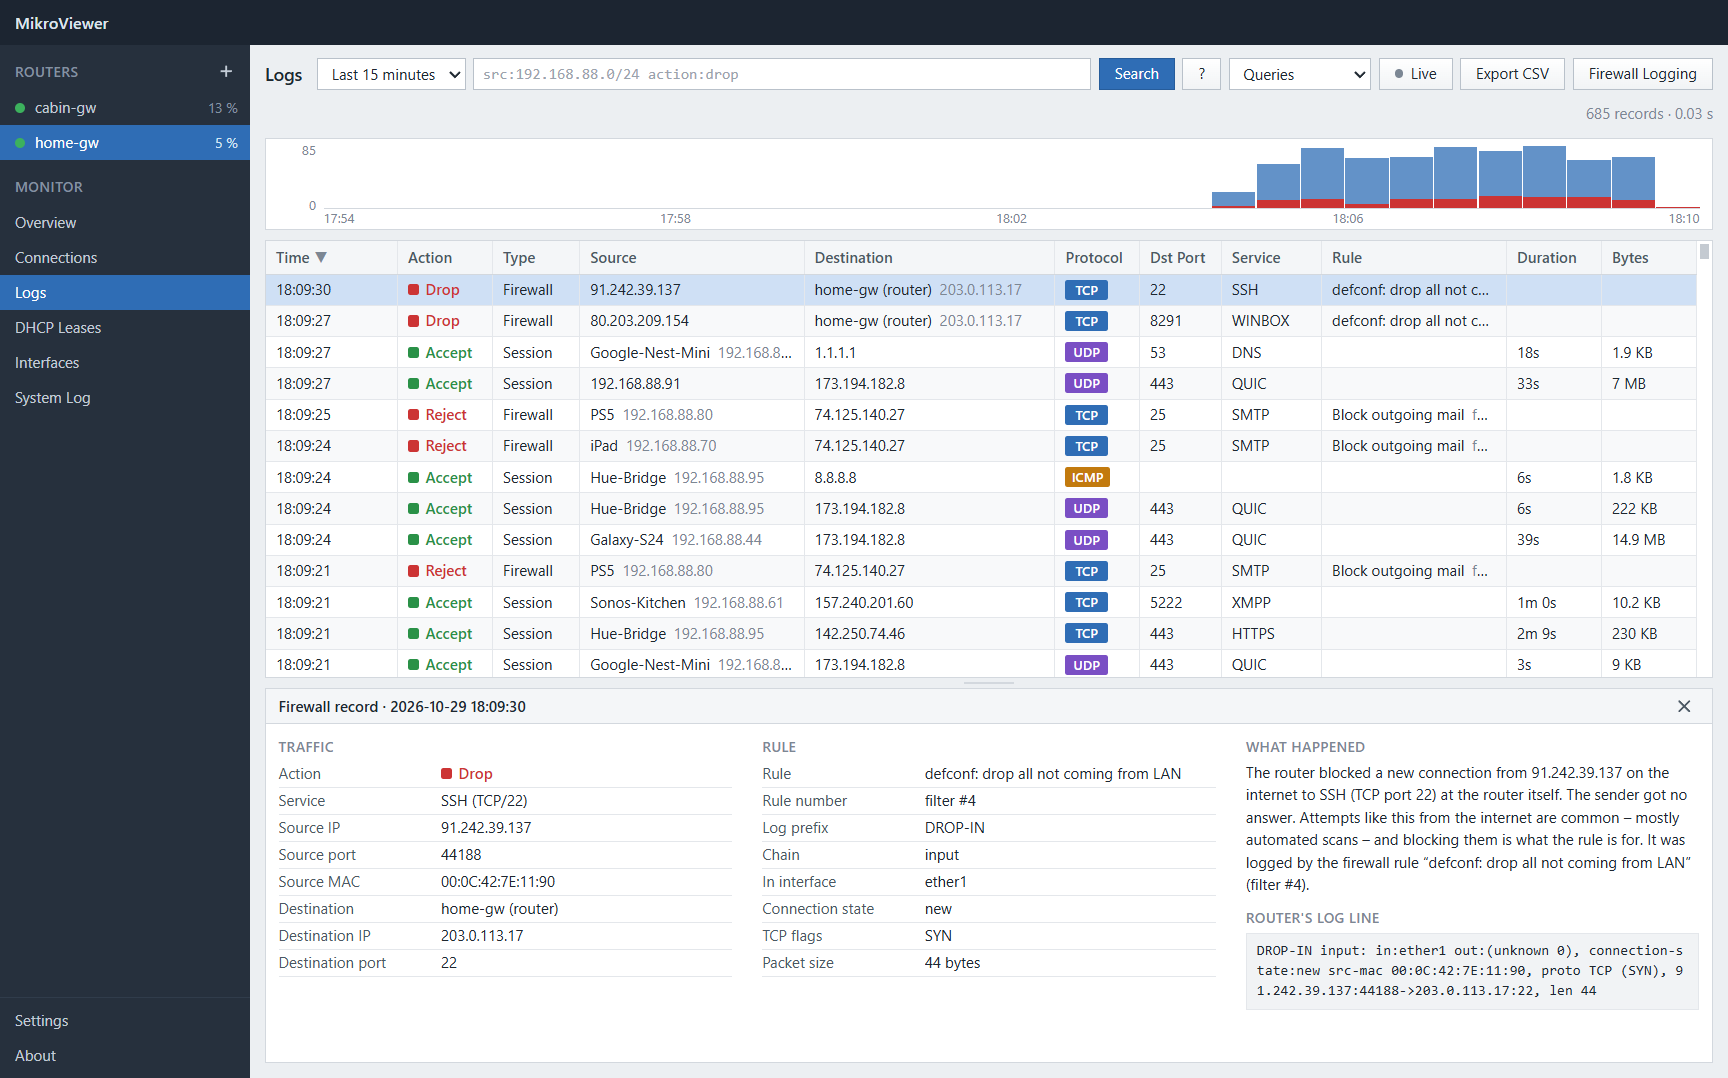
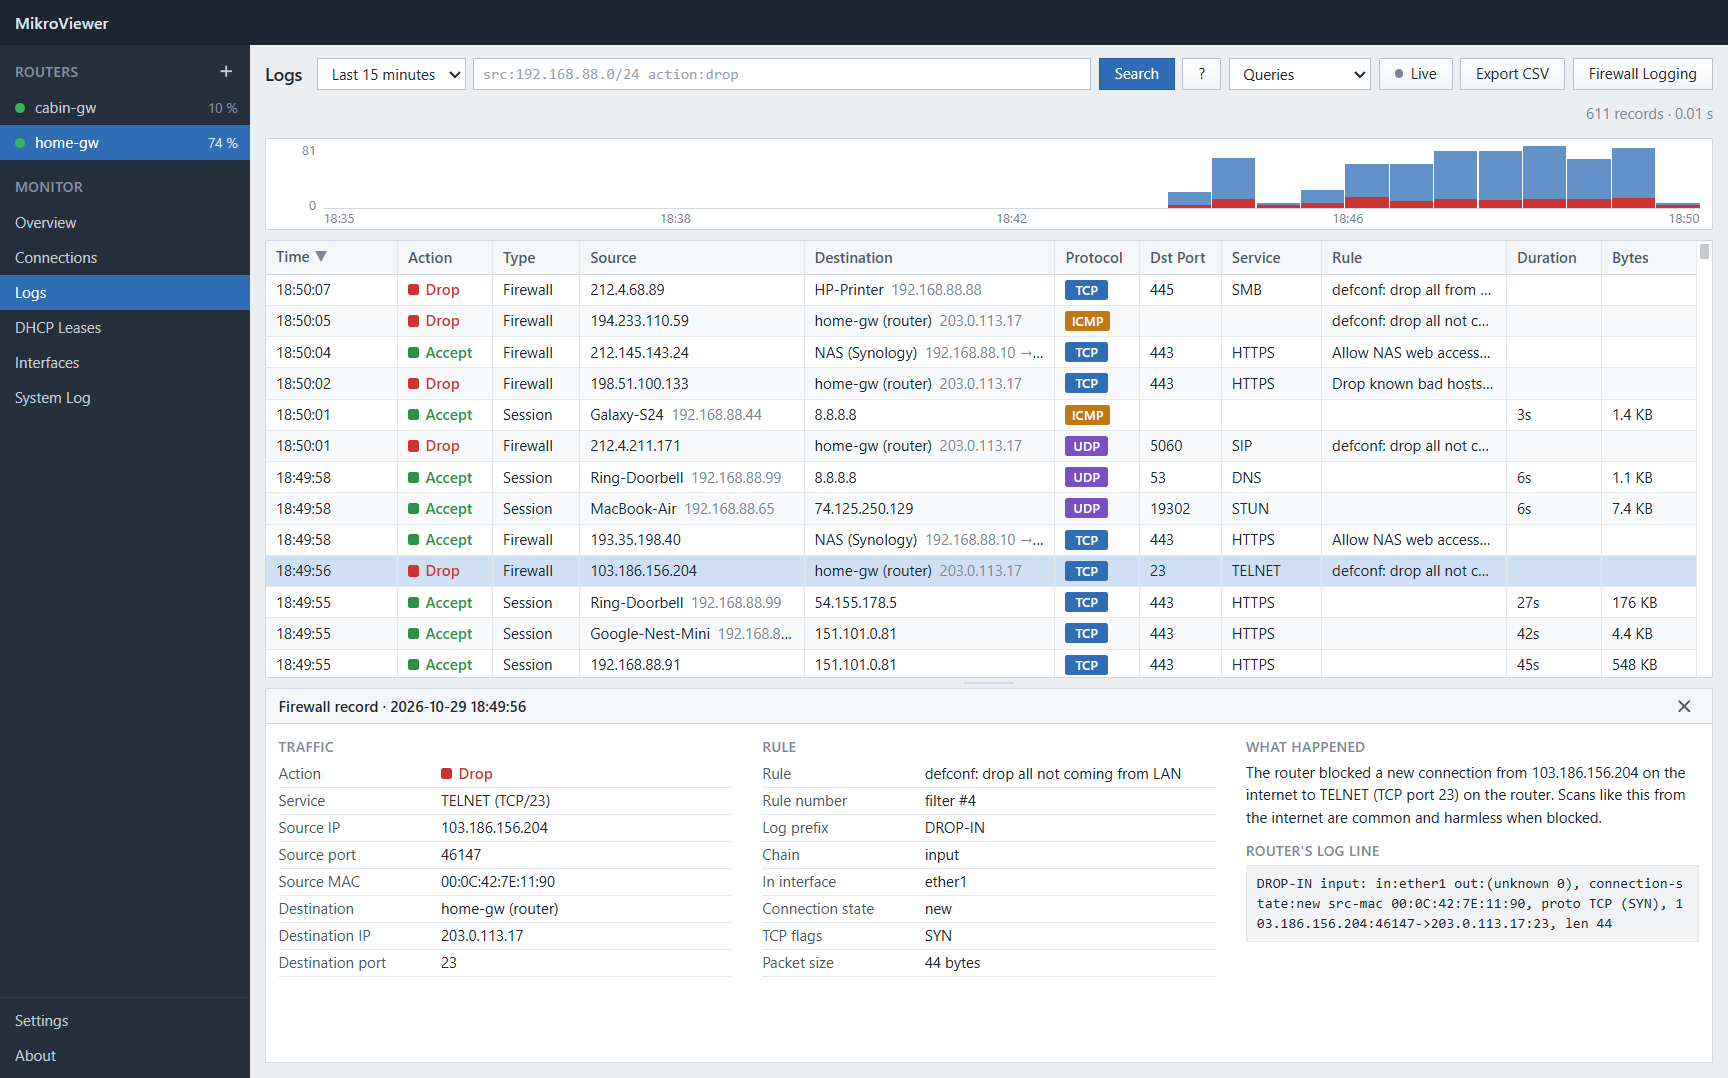
Describe the System Log history and size limit, retake the Logs screenshot

diff --git a/README.md b/README.md
@@ -11,7 +11,7 @@ A desktop program for monitoring MikroTik routers. It runs entirely on your own 
 - **Logs** – a firewall-style log of ended sessions and firewall records, with search, time ranges and a timeline (see [Logs](#logs))
 - **DHCP Leases** – IP, MAC, hostname, status and expiry
 - **Interfaces** – status, current traffic and totals
-- **System Log** – the router's own log in plain language: who logged in, which devices got an address or joined the Wi-Fi, and what the firewall blocked. **Original messages** shows the router's own wording.
+- **System Log** – the router's own log in plain language: who logged in, which devices got an address or joined the Wi-Fi, and what the firewall blocked. **Original messages** shows the router's own wording. MikroViewer keeps the log itself, so older messages stay after the router has forgotten them (see [Good to know](#good-to-know)).
 
 Several routers can be added. They stay connected at the same time, and you switch between them in the menu on the left. Right-click a router to connect, disconnect or edit it.
 
@@ -118,12 +118,13 @@ Terms next to each other must all match. `OR`, `NOT` and parentheses work as usu
 
 ## Settings and updates
 
-**Settings** (bottom left) has the light or dark theme and how long logs are kept. **About** shows the version and checks for updates. The installed version downloads and installs updates itself; the portable version links to the download page.
+**Settings** (bottom left) has the light or dark theme, how long logs are kept and how much space they may take – when either limit is reached, the oldest logs are deleted. **About** shows the version and checks for updates. The installed version downloads and installs updates itself; the portable version links to the download page.
 
 ## Good to know
 
 - **Logs are collected while MikroViewer runs.** Sessions are found by reading the connection table every 3 seconds, so very short connections can be missed. A connection that ends while MikroViewer is disconnected is logged when it reconnects, with the end marked as unknown. Firewall records arrive as the router writes them.
-- **Stored logs:** in `%APPDATA%\MikroViewer\logs`, one file per router per hour, kept for 7 days by default (Settings). They contain IP addresses, names and traffic of the devices on the network.
+- **Stored logs:** in `%APPDATA%\MikroViewer\logs`, one file per router per hour, kept for 7 days and up to 1 GB in all by default (Settings). They contain IP addresses, names and traffic of the devices on the network.
+- **System Log history:** the router only remembers its last 1,000 log lines by default, and a firewall rule that logs can fill those in minutes. MikroViewer keeps every line it sees, also those already in the router's log when it connects, in `logs\<router>\system` – one file per day, under the same limits. Firewall lines are already in Logs, so System Log only keeps the newest 2,000 of them. Lines the router writes and forgets while MikroViewer isn't running are lost.
 - **RouterOS versions:** RouterOS 6 and 7, including 7.20 and newer, where the connection table has separate port fields.
 - **Busy routers:** above 20,000 simultaneous connections, only the count is shown, to avoid loading the router.
 - **Domain names** come from the router's DNS cache, so they're only shown when the devices use the router as their DNS server, as in RouterOS' default configuration. Devices that ask another DNS server show IP addresses only. Device names come from DHCP leases.
